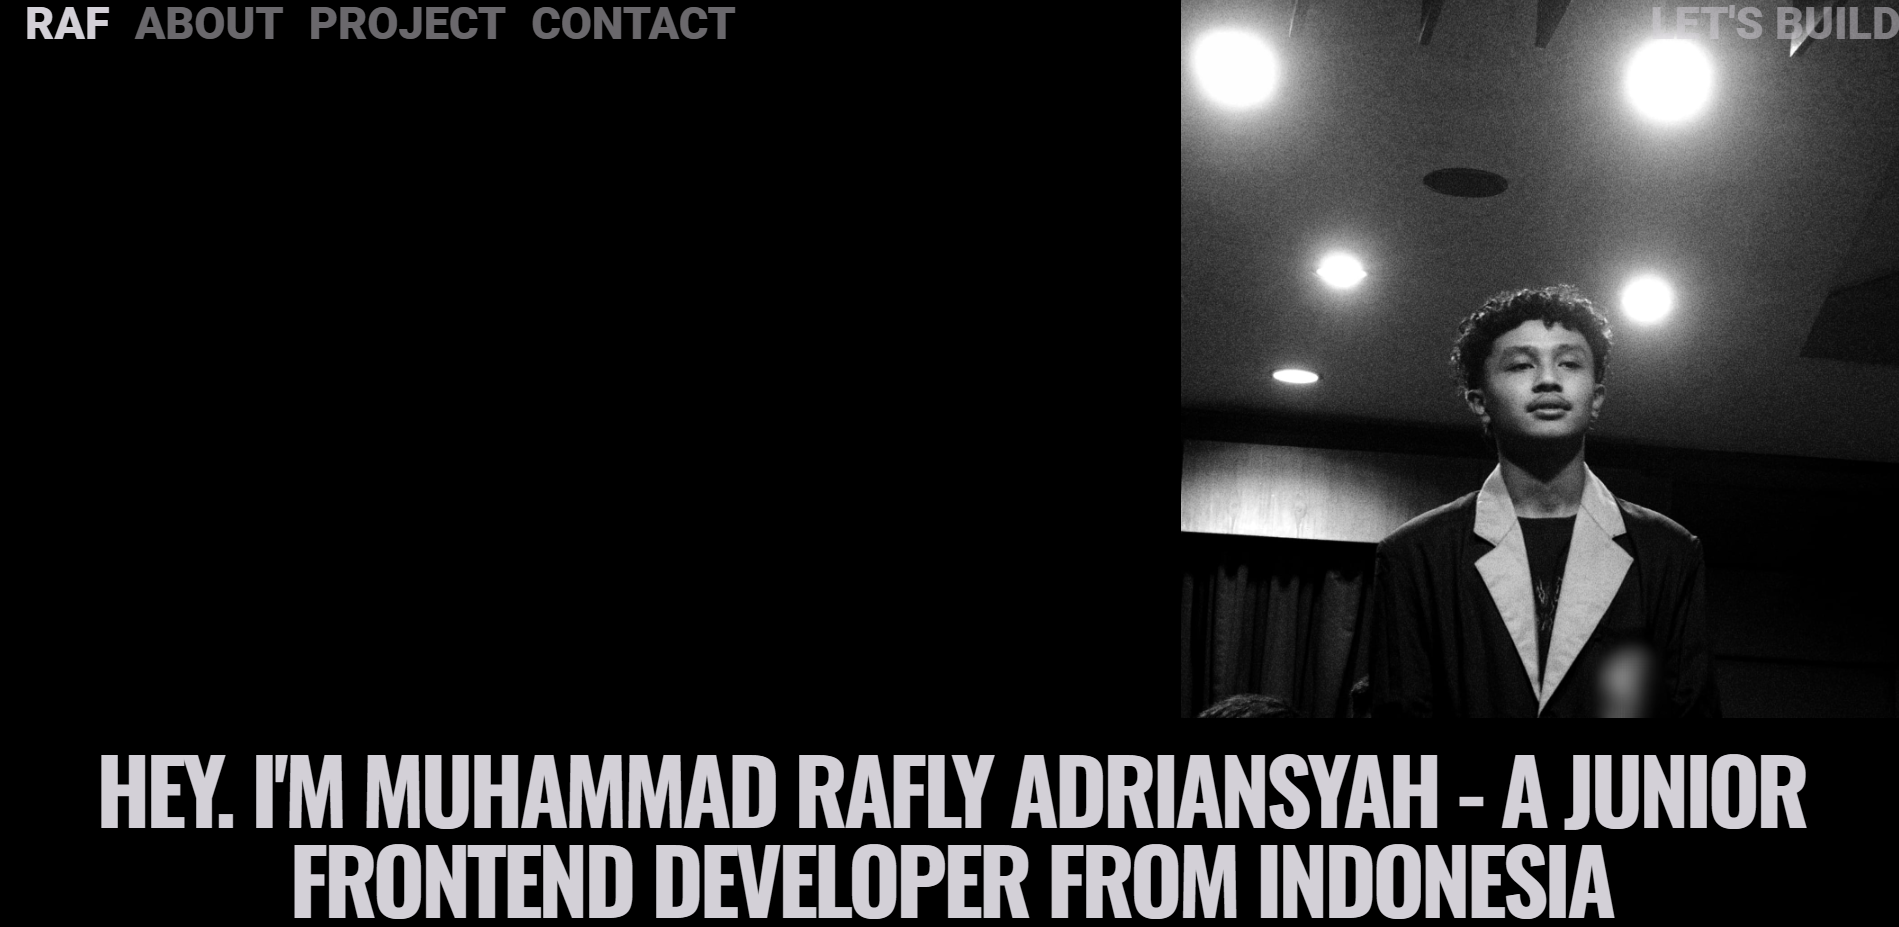
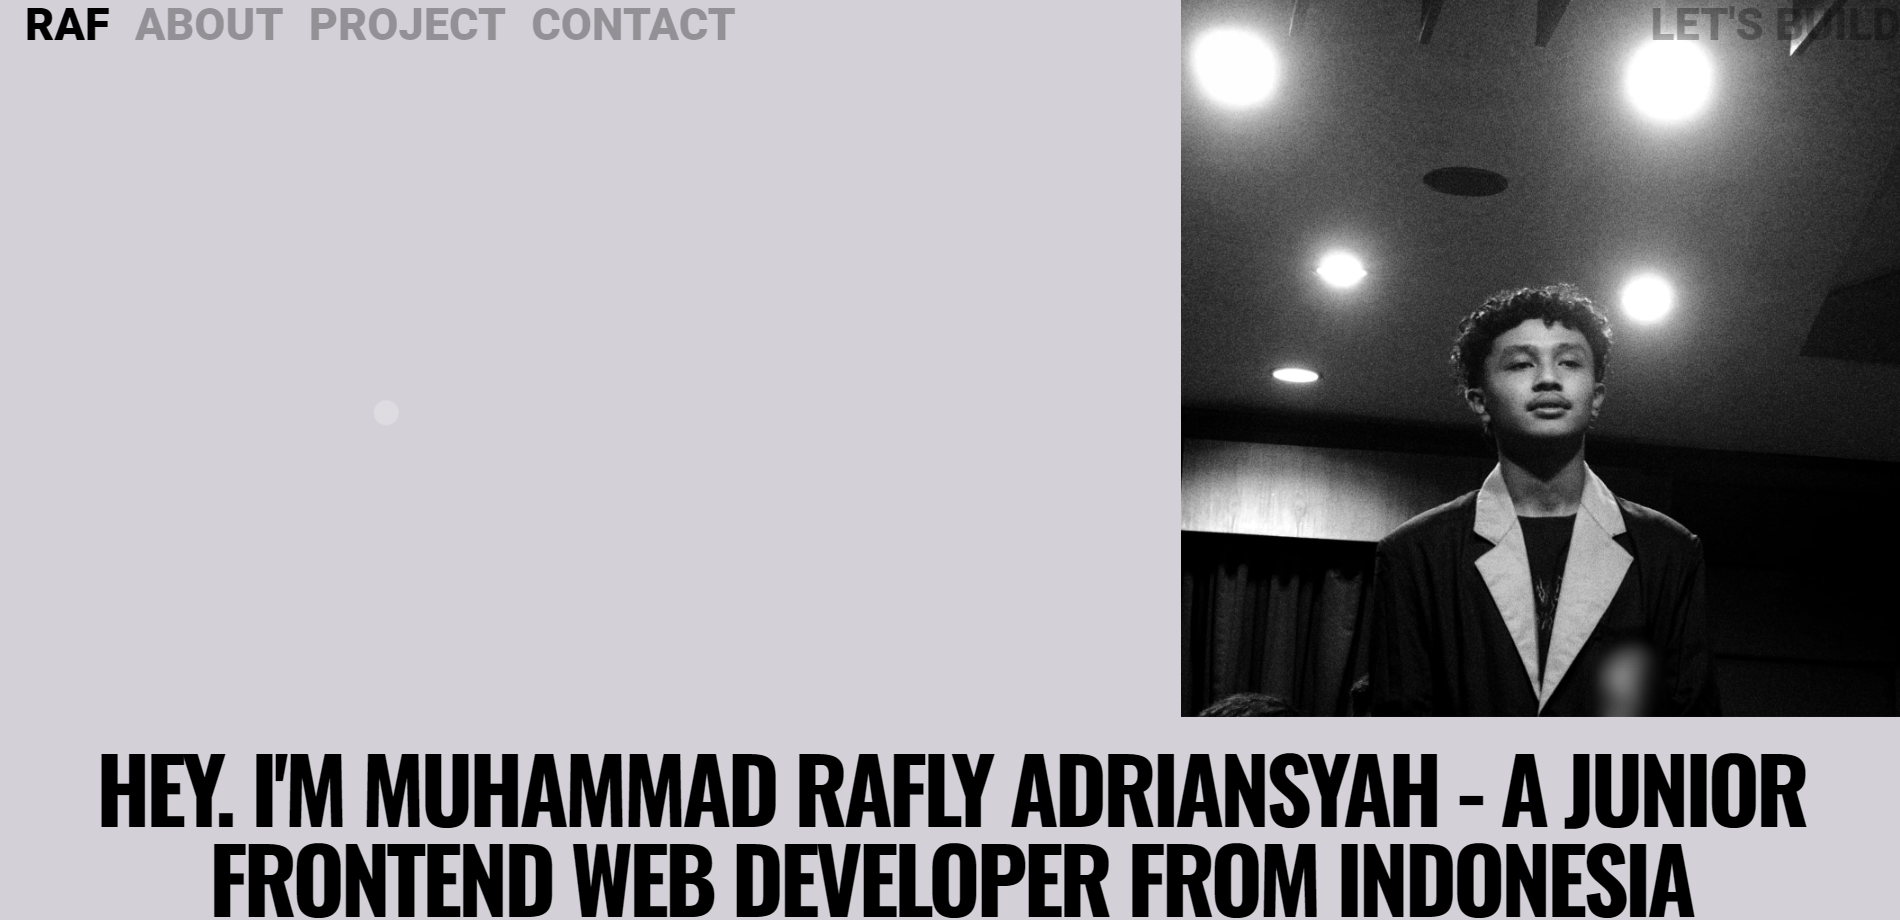
fix nav issue , and try new color

diff --git a/src/pages/Work.jsx b/src/pages/Work.jsx
@@ -1,3 +1,5 @@
+import { useRef } from "react";
+
 import WorkCard from "../components/WorkCard";
 import Contact from "../components/Contact";
 import project1 from "../assets/project-1.png";
@@ -5,6 +7,8 @@ import project2 from "../assets/project-2.png";
 import project3 from "../assets/project-3.png";
 import project4 from "../assets/project-4.png";
 import project5 from "../assets/project-5.png";
+
+import { useScrollAnimation } from "../utils/scrollAnimation";
 
 const projects = [
   {
@@ -40,20 +44,32 @@ const projects = [
 ];
 
 const Work = () => {
+  const sectionRef = useRef(null);
+  const containerRef = useRef(null);
+  useScrollAnimation({
+    ref: sectionRef,
+    itemSelector: ".text-ani",
+  });
+
   return (
-    <section className="mx-5 md:mx-20 mt-20 md:mt-52">
+    <section className="mx-5 md:mx-20 mt-20 md:mt-52" ref={sectionRef}>
       <div
-        className="w-full mb-10 border-b py-10 grid md:grid-cols-2 items-center uppercase font-light -tracking-widest"
+        className="w-full mb-10 border-b py-10 grid md:grid-cols-2 items-center uppercase font-light -tracking-wider"
         id="about"
       >
-        <div className="text-2xl md:text-8xl font-oswald">My Project</div>
-        <div className="text-sm md:text-lg">
+        <div className="text-ani text-2xl md:text-8xl font-oswald">
+          My Project
+        </div>
+        <div className="text-ani text-sm md:text-lg">
           Discover further information about this project, such as the project
           name, the tools and technologies behind it, a representative image,
           and a link that will take you directly to the project page or source.
         </div>
       </div>
-      <div className="grid md:grid-cols-2 justify-between items-center gap-10">
+      <div
+        className="grid md:grid-cols-2 justify-between items-center gap-10"
+        ref={containerRef}
+      >
         {projects.map((project, idx) => (
           <WorkCard key={project.title + idx} {...project} />
         ))}

diff --git a/src/components/Nav.jsx b/src/components/Nav.jsx
@@ -17,7 +17,7 @@ const Nav = () => {
       ease: "power2.inOut",
       stagger: { each: 0.1, from: "start" },
     });
-  }, []);
+  }, [location.pathname]);
 
   useEffect(() => {
     const cleanup = slideUpTextHover({
@@ -27,7 +27,7 @@ const Nav = () => {
       hoverTxtSel: ".nav-hover",
     });
     return cleanup;
-  }, []);
+  }, [location.pathname]);
 
   const handleScroll = (target) => {
     const smoother = ScrollSmoother.get();
@@ -85,7 +85,7 @@ const Nav = () => {
   };
 
   return (
-    <nav className="nav-fixed md:bg-transparent bg-black md:mx-5" ref={navRef}>
+    <nav className="nav-fixed md:bg-transparent bg-white md:mx-5" ref={navRef}>
       <div className="flex justify-between text-sm md:text-4xl font-black uppercase">
         <div className="flex gap-2 md:gap-5">
           <NavLink href="/" label="Raf" />

diff --git a/src/index.css b/src/index.css
@@ -10,7 +10,7 @@
 
 @layer base {
   body {
-    @apply bg-black text-putih font-roboto;
+    @apply bg-putih text-black font-roboto;
   }
 }
 
@@ -29,10 +29,10 @@
   }
 
   .project-item {
-    @apply relative overflow-hidden bg-transparent text-putih;
+    @apply relative overflow-hidden bg-transparent text-black;
   }
   .bg-overlay {
-    @apply absolute inset-0 bg-putih;
+    @apply absolute inset-0 bg-black;
     transform: translateY(100%);
   }
   .project-text {
@@ -40,6 +40,6 @@
   }
   .project-hover {
     @apply absolute top-0 left-0;
-    color: black;
+    color: white;
   }
 }

diff --git a/src/components/WorkCard.jsx b/src/components/WorkCard.jsx
@@ -1,12 +1,13 @@
 const WorkCard = ({ title, technology, img, link }) => {
   return (
-    <div className="max-w-2xl uppercase font-light -tracking-wider">
+    <div className="card max-w-2xl uppercase font-light -tracking-wider">
       <a href={link} target="_blank" rel="noopener noreferrer">
         <img
           src={img}
           alt={title}
           className="object-cover rounded-xl"
         />
+
         <div className="py-5">
           <h3 className="mb-5">{title}</h3>
           <div className="gap-5 flex">

diff --git a/src/App.jsx b/src/App.jsx
@@ -52,7 +52,7 @@ const App = () => {
       <div
         ref={cursorRef}
         className="hidden md:block fixed top-0 left-0 w-5 h-5 rounded-full
-          bg-white/25 backdrop-blur-sm
+          bg-black/25 backdrop-blur-sm
           z-[9999] pointer-events-none
           transform -translate-x-1/2 -translate-y-1/2"
       />

diff --git a/src/components/Project.jsx b/src/components/Project.jsx
@@ -17,8 +17,8 @@ export default function Project() {
       defaultTxtSel: ".text-default",
       hoverTxtSel: ".project-hover",
       overlaySel: ".bg-overlay",
-      bgColor: "#ffffff",
-      textColor: "#000000",
+      textColor: "#ffffff",
+      bgColor: "#000000",
     });
     return cleanup;
   }, []);

diff --git a/index.html b/index.html
@@ -4,7 +4,7 @@
     <meta charset="UTF-8" />
     <link rel="icon" type="image/svg+xml" href="/logo.png" />
     <meta name="viewport" content="width=device-width, initial-scale=1.0" />
-    <title>RAF</title>
+    <title>Rafly Adriansyah Portofolio</title>
   </head>
   <body>
     <div id="root"></div>

diff --git a/src/components/Technologies.jsx b/src/components/Technologies.jsx
@@ -22,7 +22,7 @@ const Technologies = () => {
           <h1>Technologies</h1>
         </div>
         <div className="text">
-          Javascript / Tailwindcss / React / GSAP / Vercel
+          Javascript / Tailwindcss / React / GSAP / Vercel / GIT
         </div>
       </div>
     </section>

diff --git a/src/utils/gsapHover.js b/src/utils/gsapHover.js
@@ -62,8 +62,8 @@ export function slideUpTextWithBgHover({
   defaultTxtSel,
   hoverTxtSel,
   overlaySel, // selector overlay
-  bgColor = "#d3d0d7",
-  textColor = "#000",
+  textColor = "#d3d0d7",
+  bgColor = "#000",
   ease = "power2.inOut",
   durationBg = 0.3,
   durationText = 0.3,
